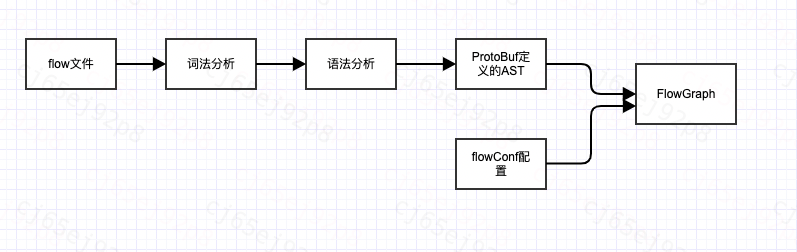
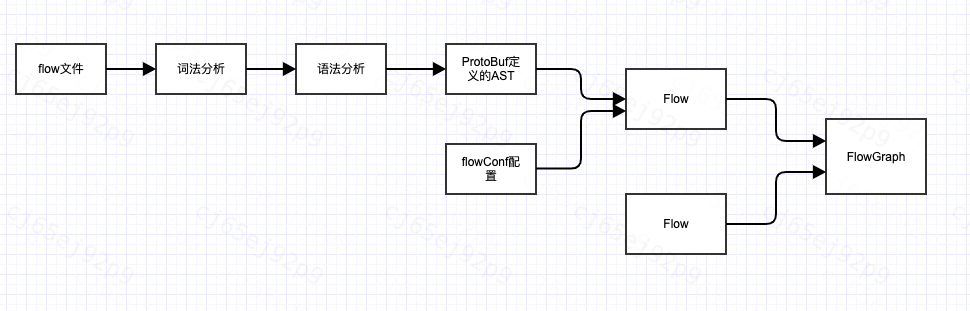
星盘编译原理修改

diff --git a/docs/detail-design/flow-compiler.md b/docs/detail-design/flow-compiler.md
@@ -4,16 +4,14 @@
 
 ![编译原理](.././assets/images/compile-process1.png)
 
-+ 星盘使用[ANTLR4](https://github.com/antlr/antlr4)将flow文件编译成ProtoBuf中间文件存放在内存中。
++ 星盘使用[ANTLR4](https://github.com/antlr/antlr4)将flow文件编译成AST(抽象语法树), AST用Protobuf表示，[ProtoBuf定义](../../horoscope-core/src/main/proto/flow_dsl.proto)。
 
-+ ProtoBuf表示语法树信息，并进行扩展支持compositor、自定义算子builtin等；根据配置文件flowConf和ProtoBuf生成编排关系flowGraph。
-+ flowGraph的顶点是ProtoBuf，边支持include,subscribe,schedule,callback关系，include和schedule为flow语法支持 ,subscribe和callback为配置文件支持。
-+ 中间文件Protobuf交给FlowExecutor执行，后续支持分布式FlowExecutor
++ Protobuf扩展支持compositor、自定义算子builtin等，Protobuf和FlowConf配置一起生成单个的Flow对象。
++ 所有的Flow对象一起生成一个flowGraph，flowGraph的顶点是Flow对象，边为Flow对象之间的关系，现在支持include,subscribe,schedule,callback关系
++ flowGraph交给FlowExecutor执行，后续支持分布式FlowExecutor
 
 ## 星盘关键定义文件
-+ [星盘ANTLR4语法定义](../../horoscope-core/src/main/antlr4/com/didichuxing/horoscope/dsl/Flow.g4)
-
-+ [星盘中间文件ProtoBuf定义](../../horoscope-core/src/main/proto/flow_dsl.proto)
++ [星盘语法定义](../../horoscope-core/src/main/antlr4/com/didichuxing/horoscope/dsl/Flow.g4)
 
 ## 案例
 
